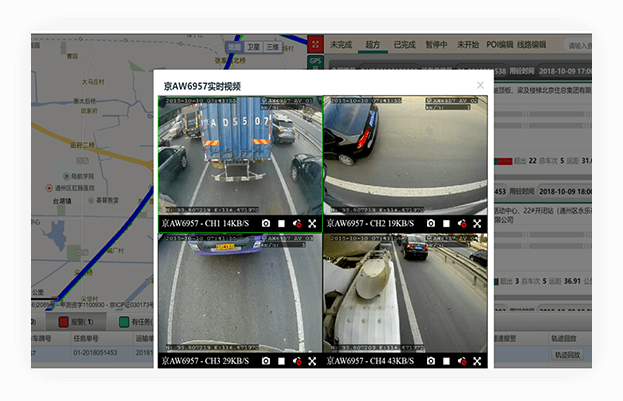
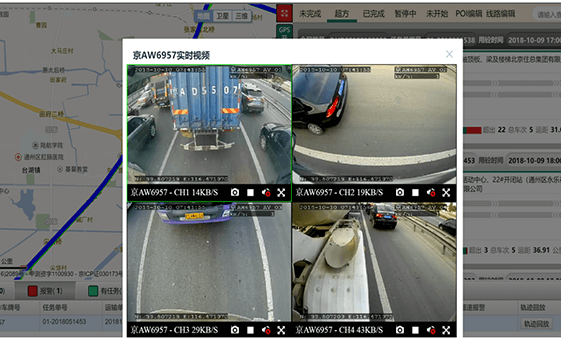
gps页面添加box-shadow

diff --git a/css/insideStyle.css b/css/insideStyle.css
@@ -67,7 +67,8 @@
 
 .gps-box3{display: -webkit-box;display: -ms-flexbox;display: flex;-webkit-box-orient: horizontal;-webkit-box-direction: normal;-ms-flex-direction: row;flex-direction: row;-ms-flex-wrap: wrap;flex-wrap: wrap;-webkit-box-pack: center;-ms-flex-pack: center;justify-content: center;-webkit-box-align: center;-ms-flex-align: center;align-items: center;margin-top: 10%;}
 .gps-box3 .img-item-box{width: 623px;border-radius: 2px;text-align: center;font-size: large;}
-.gps-box3 .img-item-box:hover img{-webkit-transform: scale(1.2);transform: scale(1.2);-webkit-transition: .25s;transition: .25s;}
+.gps-box3 .img-item-box img:hover{-webkit-transform: scale(1.2);transform: scale(1.2);-webkit-transition: .25s;transition: .25s;}
+.gps-box3 .img-item-box img{margin: 5%;box-shadow:-4px 2px 12px 3px #e8e8e8 ;}
 .gps-box3 .desc-text{padding: 5% 10%;margin-top: 5%; background-image: url('../images/insideHtml/GPSSystem/5.png');width: 100%;background-size: cover;background-position: center;background-repeat: no-repeat;}
 .gps-box3 .desc-text p{color: white;}
 .gps-box3 .bigImg{position: relative;margin-top: 10%;}
